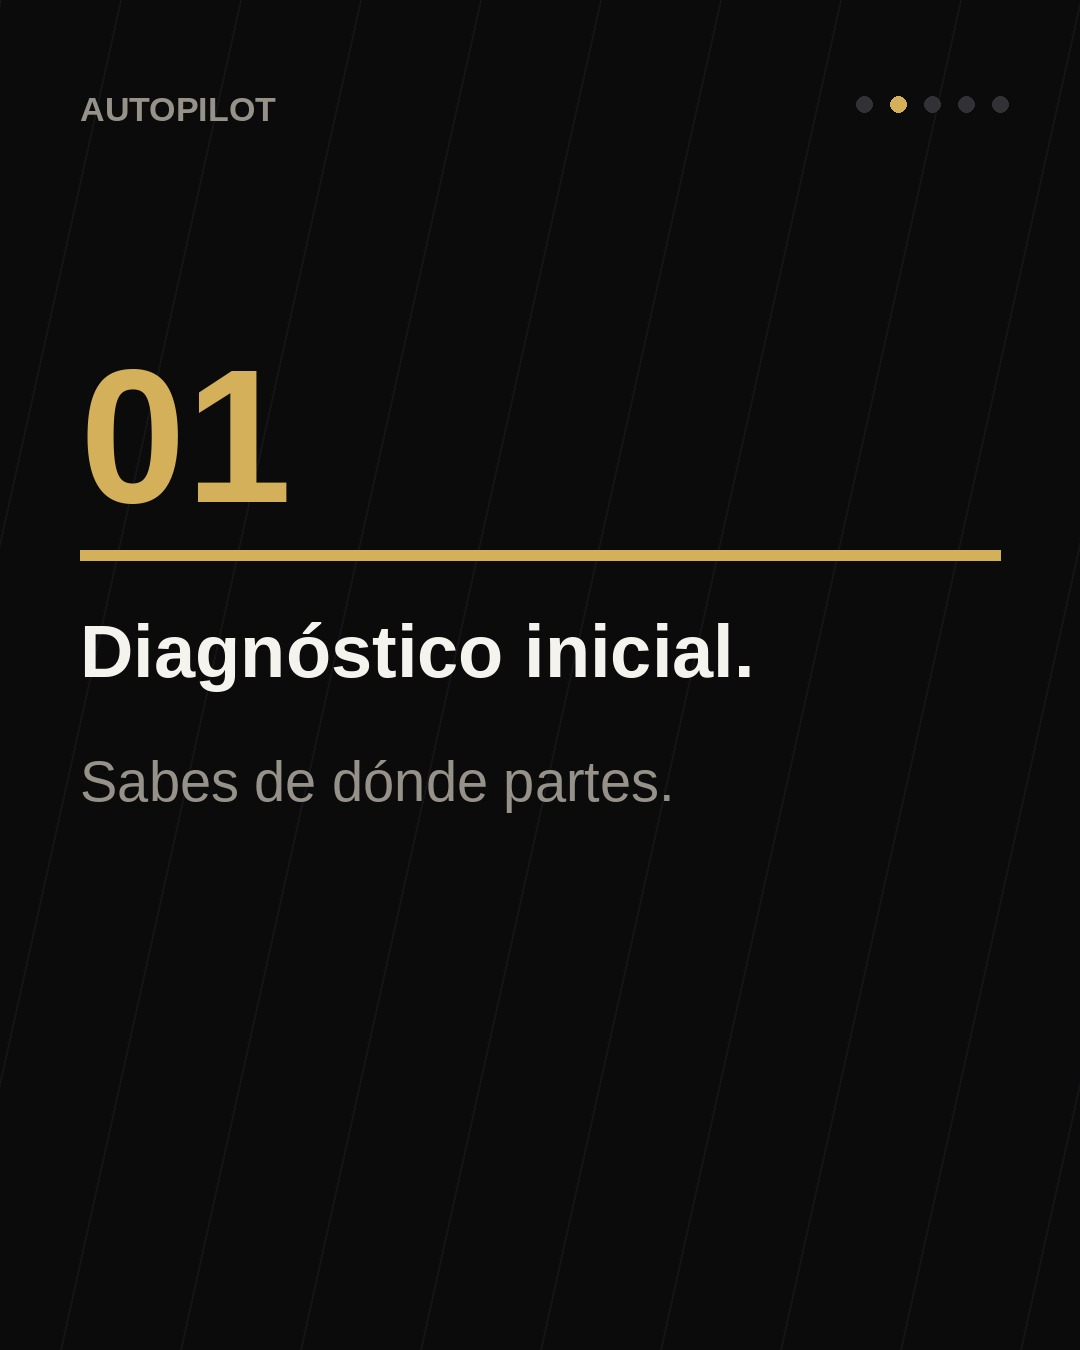
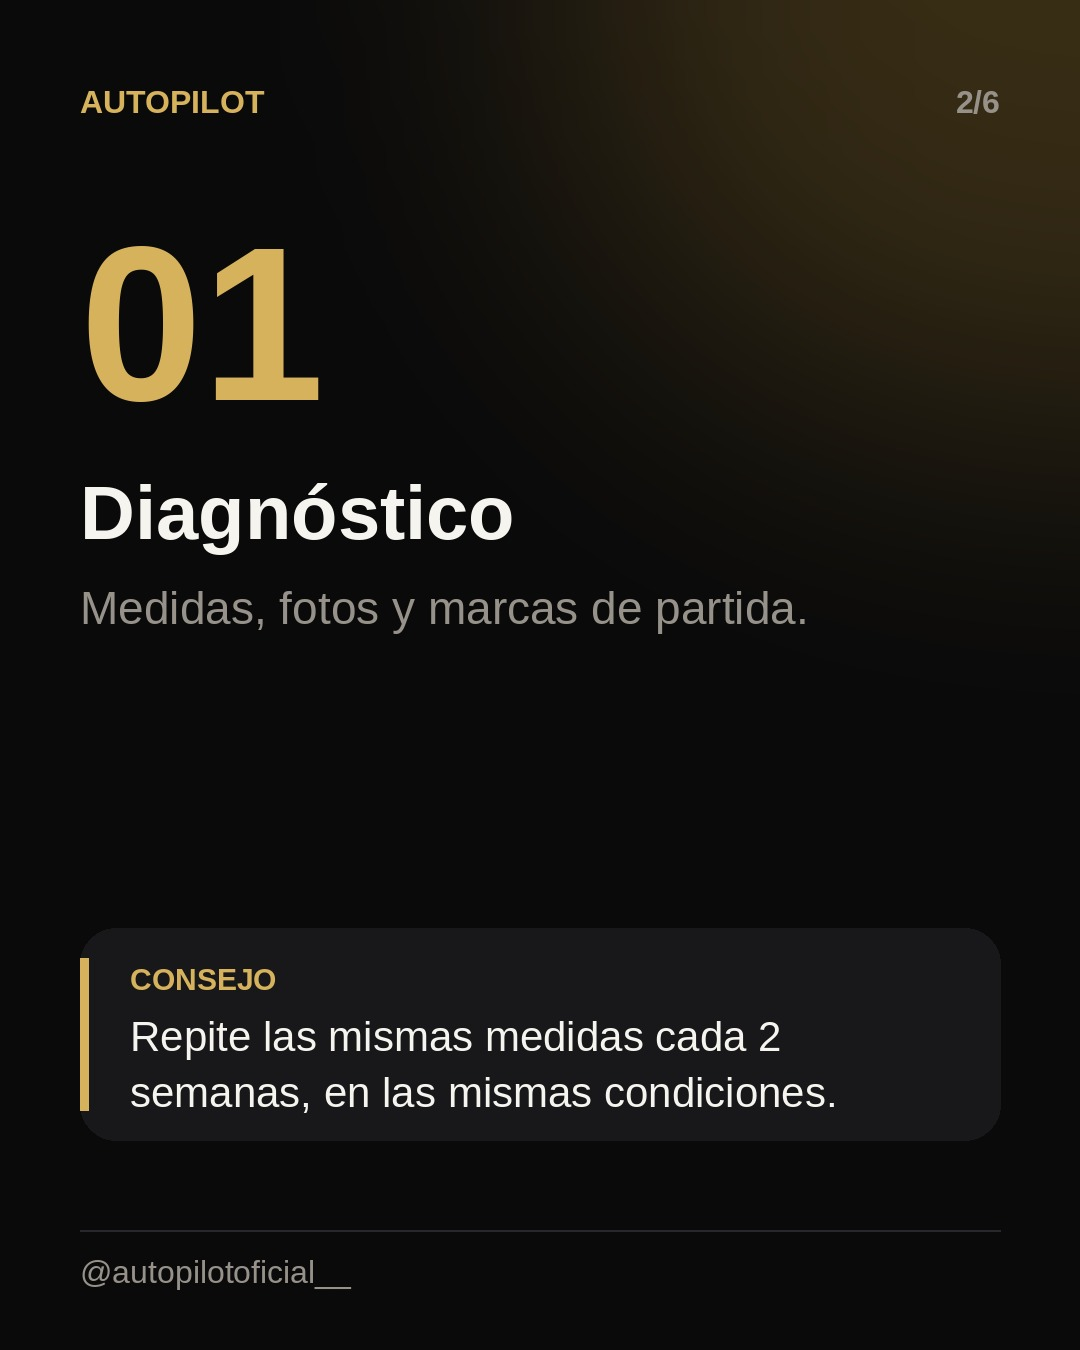
Atlas: redesigned 6-slide carousels with tips, save slide and direct URL
Claude-Session: https://claude.ai/code/session_01QTUSj3KQUXXgvfPoQeTZKx

diff --git a/empresa/media/render_carousel.py b/empresa/media/render_carousel.py
@@ -1,34 +1,107 @@
-import sys, os
-sys.argv=[sys.argv[0],"x","x"]
-src=open(os.path.join(os.path.dirname(__file__),"render.py")).read().split("name=sys.argv[1]")[0]
-exec(src)
-from PIL import Image, ImageDraw
-CW,CH=1080,1350
-def slide(slides,i):
-    n=len(slides); head,title,sub=slides[i]
-    im=Image.new("RGB",(CW,CH),BG); d=ImageDraw.Draw(im)
-    for gx in range(-120,CW+400,120): d.line([(gx,0),(gx-300,CH)],fill=(20,20,22),width=2)
-    d.text((80,90),"AUTOPILOT",font=F(B,34),fill=MUTED)
-    # dots
-    for k in range(n):
-        x=CW-80-(n-1-k)*34; d.ellipse([x-8,104-8,x+8,104+8],fill=GOLD if k==i else (50,50,54))
-    x=80
-    if head=="CTA":
-        y=text_block(d,x,330,title,F(B,84),FG,1,0,100)
-        parts=sub.split("|")
-        if len(parts)>1: y=text_block(d,x,y+30,parts[0],F(R,56),MUTED,1,0,70)
-        text_block(d,x,y+30,parts[-1],F(B,170),GOLD,1,0,190)
-        bx,by,bw,bh=80,CH-330,CW-160,170
-        d.rounded_rectangle([bx,by,bx+bw,by+bh],radius=85,fill=GOLD)
-        ft=F(B,62); tw=d.textlength("Enlace en la bio",font=ft); d.text(((CW-tw)//2,by+bh//2-34),"Enlace en la bio",font=ft,fill=BG)
-        return im
-    y=text_block(d,x,330 if i else 380,head,F(B,190 if len(head)<=4 else 150),GOLD,1,0,200)
-    d.rectangle([x,y+20,CW-80,y+30],fill=GOLD)
-    y=text_block(d,x,y+80,title,F(B,74),FG,1,0,90)
-    if sub: text_block(d,x,y+50,sub,F(R,56),MUTED,1,0,72)
-    if i==0:
-        d.text((x,CH-150),"Desliza →",font=F(B,48),fill=GOLD)
+import os, math
+from PIL import Image, ImageDraw, ImageFont, ImageFilter
+W,H=1080,1350
+BG=(10,10,11); CARD=(24,24,27); FG=(246,244,239); GOLD=(214,178,92); MUTED=(150,146,138); LINE=(40,40,44)
+B="/usr/share/fonts/truetype/liberation/LiberationSans-Bold.ttf"; R="/usr/share/fonts/truetype/liberation/LiberationSans-Regular.ttf"
+F=lambda p,s: ImageFont.truetype(p,s)
+URL="autopilotplan.com/recursos"
+def wrap(d,txt,font,maxw):
+    out=[]
+    for para in txt.split("\n"):
+        line=""
+        for w in para.split(" "):
+            t=(line+" "+w).strip()
+            if d.textlength(t,font=font)<=maxw: line=t
+            else: out.append(line); line=w
+        out.append(line)
+    return out
+def para(d,x,y,txt,font,col,maxw,lh):
+    for l in wrap(d,txt,font,maxw): d.text((x,y),l,font=font,fill=col); y+=lh
+    return y
+def base(i,n):
+    im=Image.new("RGB",(W,H),BG)
+    glow=Image.new("RGB",(W,H),BG); g=ImageDraw.Draw(glow)
+    g.ellipse([W-520,-380,W+380,420],fill=(60,48,22)); glow=glow.filter(ImageFilter.GaussianBlur(160))
+    im=Image.blend(im,glow,0.9); d=ImageDraw.Draw(im)
+    d.text((80,84),"AUTOPILOT",font=F(B,32),fill=GOLD)
+    t=f"{i+1}/{n}"; d.text((W-80-d.textlength(t,font=F(B,32)),84),t,font=F(B,32),fill=MUTED)
+    d.line([(80,H-120),(W-80,H-120)],fill=LINE,width=2)
+    d.text((80,H-96),"@autopilotoficial__",font=F(R,32),fill=MUTED)
+    return im,d
+def cover(c,i,n):
+    im,d=base(i,n)
+    d.rounded_rectangle([80,230,80+d.textlength(c["tag"],font=F(B,34))+56,290],radius=30,outline=GOLD,width=3)
+    d.text((108,240),c["tag"],font=F(B,34),fill=GOLD)
+    y=para(d,80,360,c["hook"],F(B,118),FG,W-160,128)
+    y=para(d,80,y+30,c["sub"],F(R,50),MUTED,W-160,64)
+    d.rounded_rectangle([80,H-260,420,H-170],radius=45,fill=GOLD)
+    d.text((122,H-240),"Desliza  →",font=F(B,44),fill=BG)
     return im
+def point(c,p,i,n):
+    im,d=base(i,n)
+    num,title,body,tip=p
+    d.text((80,200),num,font=F(B,220),fill=GOLD)
+    y=para(d,80,470,title,F(B,76),FG,W-160,88)
+    y=para(d,80,y+24,body,F(R,46),MUTED,W-160,62)
+    if tip:
+        ft=F(R,42); lines=wrap(d,tip,ft,W-160-120); h=60+len(lines)*56+40
+        y=max(y+50,H-170-h-40)
+        d.rounded_rectangle([80,y,W-80,y+h],radius=36,fill=CARD)
+        d.rectangle([80,y+30,88,y+h-30],fill=GOLD)
+        d.text((130,y+34),"CONSEJO",font=F(B,30),fill=GOLD)
+        yy=y+84
+        for l in lines: d.text((130,yy),l,font=ft,fill=FG); yy+=56
+    return im
+def save(c,i,n):
+    im,d=base(i,n)
+    cx,cy=W//2,470
+    d.polygon([(cx-90,cy-130),(cx+90,cy-130),(cx+90,cy+130),(cx,cy+60),(cx-90,cy+130)],outline=GOLD,width=10)
+    t="Guárdalo"; ft=F(B,110); d.text(((W-d.textlength(t,font=ft))//2,680),t,font=ft,fill=FG)
+    for k,l in enumerate(wrap(d,c["save"],F(R,48),W-200)):
+        d.text(((W-d.textlength(l,font=F(R,48)))//2,830+k*64),l,font=F(R,48),fill=MUTED)
+    return im
+def cta(c,i,n):
+    im,d=base(i,n)
+    d.text((80,220),"SI QUIERES EL MÉTODO COMPLETO",font=F(B,34),fill=GOLD)
+    y=para(d,80,300,c["book"],F(B,96),FG,W-160,106)
+    y=para(d,80,y+20,c["what"],F(R,46),MUTED,W-160,62)
+    if c.get("old"):
+        ft=F(R,52); d.text((80,y+50),c["old"],font=ft,fill=MUTED); tw=d.textlength(c["old"],font=ft)
+        d.line([(80,y+82),(80+tw,y+82)],fill=MUTED,width=4); y+=70
+    d.text((80,y+50),c["price"],font=F(B,170),fill=GOLD)
+    d.text((80,y+240),"Pago único · PDF · descarga inmediata",font=F(R,40),fill=MUTED)
+    bx,by=80,H-330
+    d.rounded_rectangle([bx,by,W-80,by+150],radius=75,fill=GOLD)
+    ft=F(B,52); d.text(((W-d.textlength(URL,font=ft))//2,by+46),URL,font=ft,fill=BG)
+    return im
+C={
+"atlas":dict(tag="CALISTENIA",hook="Tu primera dominada",sub="3 errores que la frenan (y qué hacer en su lugar).",
+ pts=[("01","Tirar sin base","Si aún no haces ninguna, colgarte y tirar no te acerca.","Remo invertido + negativas: baja en 3-5 s, 3-4 series de 3-5."),
+      ("02","Olvidar la escápula","Sin escápula activa, tiran los brazos y no la espalda.","Colgado, baja los hombros lejos de las orejas sin doblar codos. 3×10."),
+      ("03","Ir al fallo cada día","El fallo constante acumula fatiga y frena el progreso.","Deja 1-2 repeticiones en reserva y entrena tirón 2-3 días por semana.")],
+ save="Para tu próximo día de tirón.",book="Atlas de progresiones",what="Progresiones paso a paso: dominadas, fondos, L-sit, front lever, planche y más.",price="29,90 €"),
+"nutricion":dict(tag="NUTRICIÓN",hook="Perder grasa sin pasar hambre",sub="3 bases que funcionan mejor que cualquier dieta de moda.",
+ pts=[("01","Proteína en cada comida","Ayuda a conservar músculo y te deja más saciado.","Una ración del tamaño de tu palma en cada comida principal."),
+      ("02","Déficit pequeño","Recortar mucho dispara el hambre y es difícil de mantener.","Busca perder alrededor del 0,5-1 % de tu peso por semana."),
+      ("03","Volumen en el plato","Verdura y fruta llenan con pocas calorías.","Medio plato de verdura en comida y cena.")],
+ save="Para la próxima vez que hagas la compra.",book="Nutrición y recomposición",what="Guía visual sin mitos para perder grasa y ganar músculo.",price="19,90 €"),
+"base":dict(tag="FUERZA",hook="Entrenas y no ganas fuerza",sub="3 motivos frecuentes y cómo corregirlos.",
+ pts=[("01","Cambias de rutina","Cada cambio reinicia la adaptación.","Mantén los ejercicios principales al menos 6-8 semanas."),
+      ("02","No apuntas nada","Sin registro no sabes si progresas.","Anota peso y repeticiones; intenta superar una de las dos."),
+      ("03","Descansas poco","En los básicos, la fatiga te quita repeticiones.","2-3 minutos entre series de los ejercicios principales.")],
+ save="Para tu próximo día de gimnasio.",book="Base de fuerza",what="La estructura para dejar de improvisar y progresar con un método.",price="19,90 €"),
+"blueprint":dict(tag="12 SEMANAS",hook="Un plan, no improvisar",sub="Cómo se estructura una transformación de 12 semanas.",
+ pts=[("01","Diagnóstico","Medidas, fotos y marcas de partida.","Repite las mismas medidas cada 2 semanas, en las mismas condiciones."),
+      ("02","Fuerza → hipertrofia","Primero construyes base; luego, volumen.","Sube la carga cuando completes todas las series con buena técnica."),
+      ("03","Seguimiento semanal","Ajustas según datos, no según sensaciones.","Revisa peso medio semanal, no el de un solo día.")],
+ save="Para empezar tu próximo bloque.",book="Blueprint Transformación",what="Programa de 12 semanas: diagnóstico, fuerza, hipertrofia, seguimiento y nutrición.",price="49,90 €"),
+"pack":dict(tag="PACK",hook="3 guías. Un solo pago.",sub="Todo lo que necesitas para entrenar con método.",
+ pts=[("01","Base de fuerza","Estructura para dejar de improvisar en el gimnasio.",None),
+      ("02","Atlas de progresiones","De la base al dominio en calistenia.",None),
+      ("03","Blueprint Transformación","Tu plan completo de 12 semanas.",None)],
+ save="Para cuando decidas empezar en serio.",book="Pack completo Autopilot",what="Base de fuerza + Atlas de progresiones + Blueprint Transformación.",old="99,70 € por separado",price="29,90 €"),
+}
 out=os.environ["OUT"]; os.makedirs(out,exist_ok=True)
-for name,slides in REELS.items():
-    for i in range(len(slides)): slide(slides,i).save(f"{out}/{name}-{i+1}.jpg",quality=92)
+for k,c in C.items():
+    slides=[lambda i,n,c=c: cover(c,i,n)]+[lambda i,n,p=p,c=c: point(c,p,i,n) for p in c["pts"]]+[lambda i,n,c=c: save(c,i,n), lambda i,n,c=c: cta(c,i,n)]
+    for i,fn in enumerate(slides): fn(i,len(slides)).save(f"{out}/{k}-{i+1}.jpg",quality=92)
